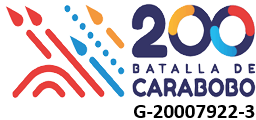
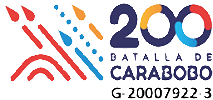
added more function files

diff --git a/php/perfil.php b/php/perfil.php
@@ -5,25 +5,45 @@
     include "../assets/header.php";
 ?>
 
-            <h3>Perfil de usuario</h3>
+            <h3>Perfíl de usuario</h3>
 
             <table class="table">
                 
                 <tr>
                     <th>Nombre</th>
-                    <td><?php echo $_SESSION['nombre'] .' ' .$_SESSION['apellido']; ?></td>
+                    <td><?php echo $user['p_nombre'] ." " .$user['s_nombre'] ." " .$user['p_apellido'] ." " .$user['s_apellido']; ?></td>
                 </tr>
                 <tr>
-                    <th>Cedula</th>
-                    <td><?php echo $_SESSION['cedula']; ?></td>
+                    <th>Cédula</th>
+                    <td><?php echo $user['cedula']; ?></td>
                 </tr>
                 <tr>
                     <th>Nacionalidad</th>
-                    <td><?php echo $_SESSION['nacionalidad']; ?></td>
+                    <td><?php echo ($user['nacionalidad'] == 1 ? "Venezolano" : "Extranjero"); ?></td>
                 </tr>
                 <tr>
                     <th>Nombre de usuario</th>
-                    <td><?php echo $_SESSION['userid']; ?></td>
+                    <td><?php echo $user['userid']; ?></td>
+                </tr>
+                <tr>
+                    <th>Fecha de nacimiento</th>
+                    <td><?php 
+                    $fechanac = date_create($user['fecha_nac']);
+                    echo date_format($fechanac, "d/m/Y"); ?></td>
+                </tr>
+                <tr>
+                    <th>Fecha de ingreso</th>
+                    <td><?php 
+                    $fechaing = date_create($user['fecha_ing']);
+                    echo date_format($fechaing, "d/m/Y"); ?></td>
+                </tr>
+                <tr>
+                    <th>Cargo</th>
+                    <td><?php echo $user['cargo']; ?></td>
+                </tr>
+                <tr>
+                    <th>Departamento</th>
+                    <td><?php echo $user['dpto']; ?></td>
                 </tr>
                 
             </table>

diff --git a/assets/header.php b/assets/header.php
@@ -27,7 +27,7 @@
             <nav class="navbar sticky-top navbar-expand-lg navbar-light bg-light d-flex flex-column">
                 <div class="container-fluid">
                     <img class="img-fluid float-left" src="../img/minaguas.png" style="background: transparent;" width="30%">
-                    <img class="img-fluid float-right" src="../img/200-rif.png" style="background: transparent;" width="15%">
+                    <img class="img-fluid float-right" src="../img/200rif.png" style="background: transparent;" width="15%">
                 </div>
                 <div class="container-fluid justify-content-between">
                     <a class="navbar-brand" href="./index.php"><img src="../img/hidroven.png" class="img-fluid" style="background: transparent;"></a>
@@ -47,7 +47,7 @@
                                 if (isset($_SESSION['loggedin']) && $_SESSION['loggedin'] == true) {
                             ?>
                             <li class="nav-item">
-                                <a class="nav-link" aria-current="page" href="./perfil.php">Perfil</a>
+                                <a class="nav-link" aria-current="page" href="./perfil.php">Perfíl</a>
                             </li>
                             <?php
                                 }

diff --git a/functions/sql_queries.php b/functions/sql_queries.php
@@ -24,6 +24,7 @@
             $_SESSION['tipo_mensaje'] = 2;
             header('location: /php/login.php');
             return $login;
+            exit();
 
         } else {
 
@@ -40,7 +41,7 @@
             if (!($resultCheck > 0) || !(password_verify($clave, $uservars['clave']))) {
                 
                 // Usuario o clave incorrectos incorrecto
-                $_SESSION['mensaje'] = "Usuario y/o clave no válidos.";
+                $_SESSION['mensaje'] = "<br> Usuario y/o clave no válidos.";
                 $_SESSION['tipo_mensaje'] = 1;
                 return $login;
                 exit();
@@ -133,9 +134,8 @@
             // Correr statement con datos
             mysqli_stmt_execute($stmt);
             $result = mysqli_stmt_get_result($stmt);
-            $resultCheck = mysqli_num_rows($result);
             $userinfo = mysqli_fetch_assoc($result);
-            
+
             return $userinfo;
              
         }

diff --git a/assets/alert.php b/assets/alert.php
@@ -10,7 +10,7 @@
             <?php
         } else if ($_SESSION['tipo_mensaje'] == 1) {?>
             <!-- Mensaje rojo (danger) -->
-            <div class="alert alert-danger" role="alert"><?php echo $_SESSION['mensaje']?></div>
+            <div class="alert alert-danger" role="alert"><?php echo "Error: " .$_SESSION['mensaje']?></div>
         <?php
         } else if ($_SESSION['tipo_mensaje'] == 2) {?>
             <!-- Mensaje amarillo (warning) -->

diff --git a/functions/auth.php b/functions/auth.php
@@ -17,7 +17,7 @@
         if (empty_login($userid, $clave) !== false) {
 
             // Algún campo está vacío
-            $_SESSION['mensaje'] = "Error:" .$_SESSION['mensaje'];
+            $_SESSION['mensaje'] = $_SESSION['mensaje'];
             header("location: ../php/login.php");
             exit();
 

diff --git a/functions/functions.php b/functions/functions.php
@@ -1,9 +1,6 @@
 <!-- Funciones de la intranet -->
 <?php
 
-    session_start();
-    include_once "./connection.php";
-
     // Función para validar que los datos en el login no estén vacíos
     function empty_login($userid, $clave) {
         
